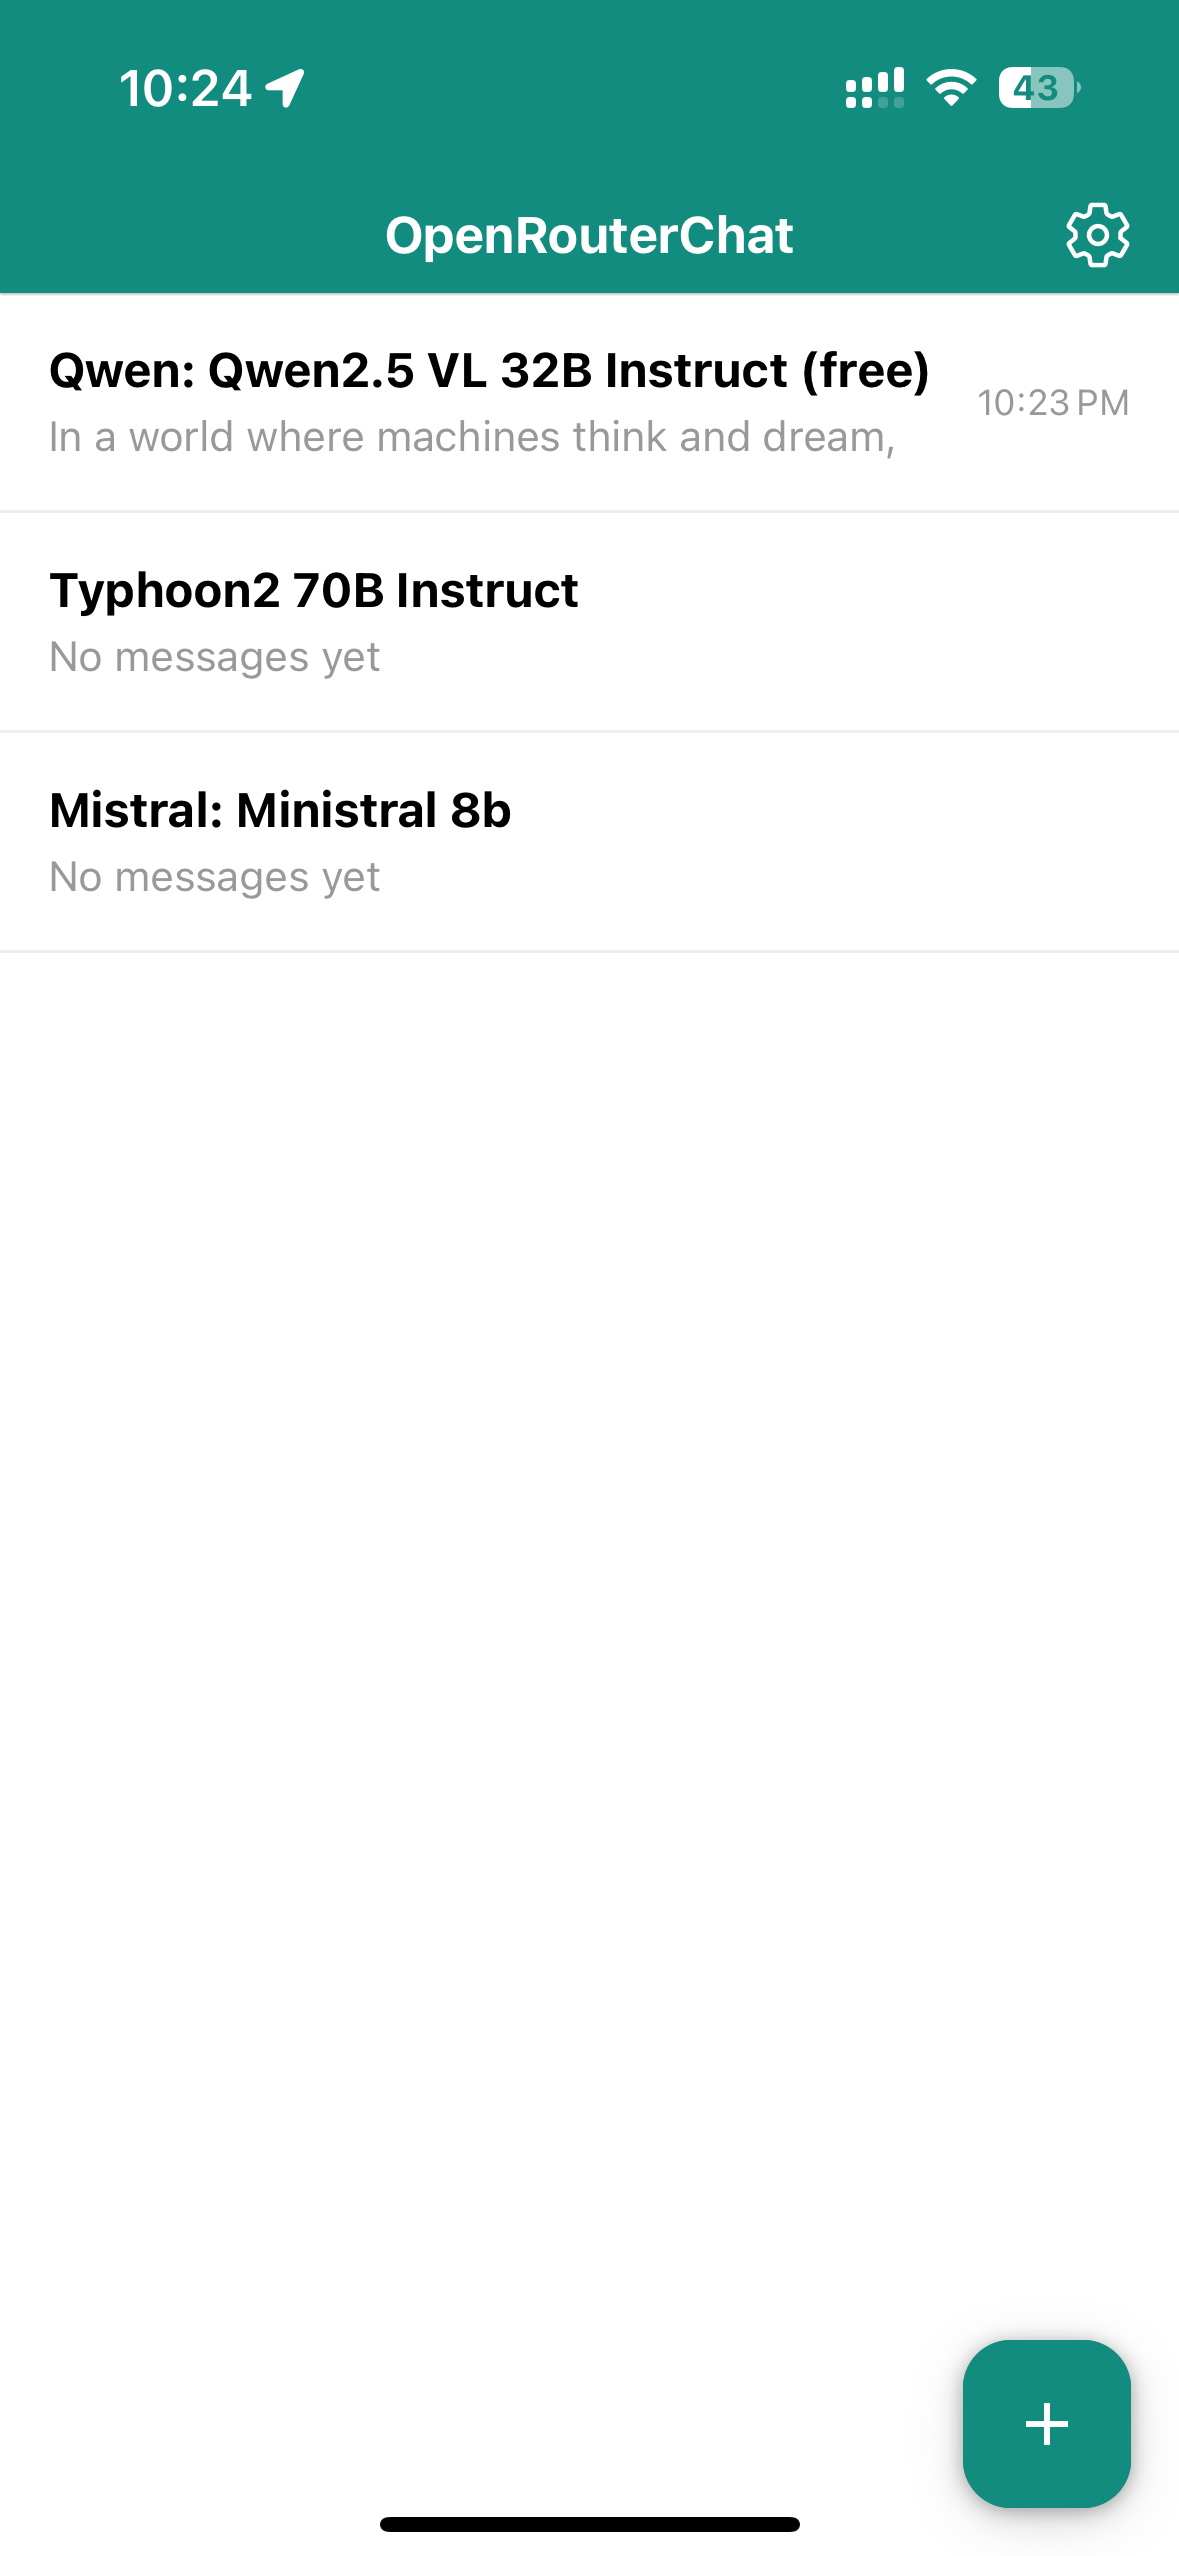
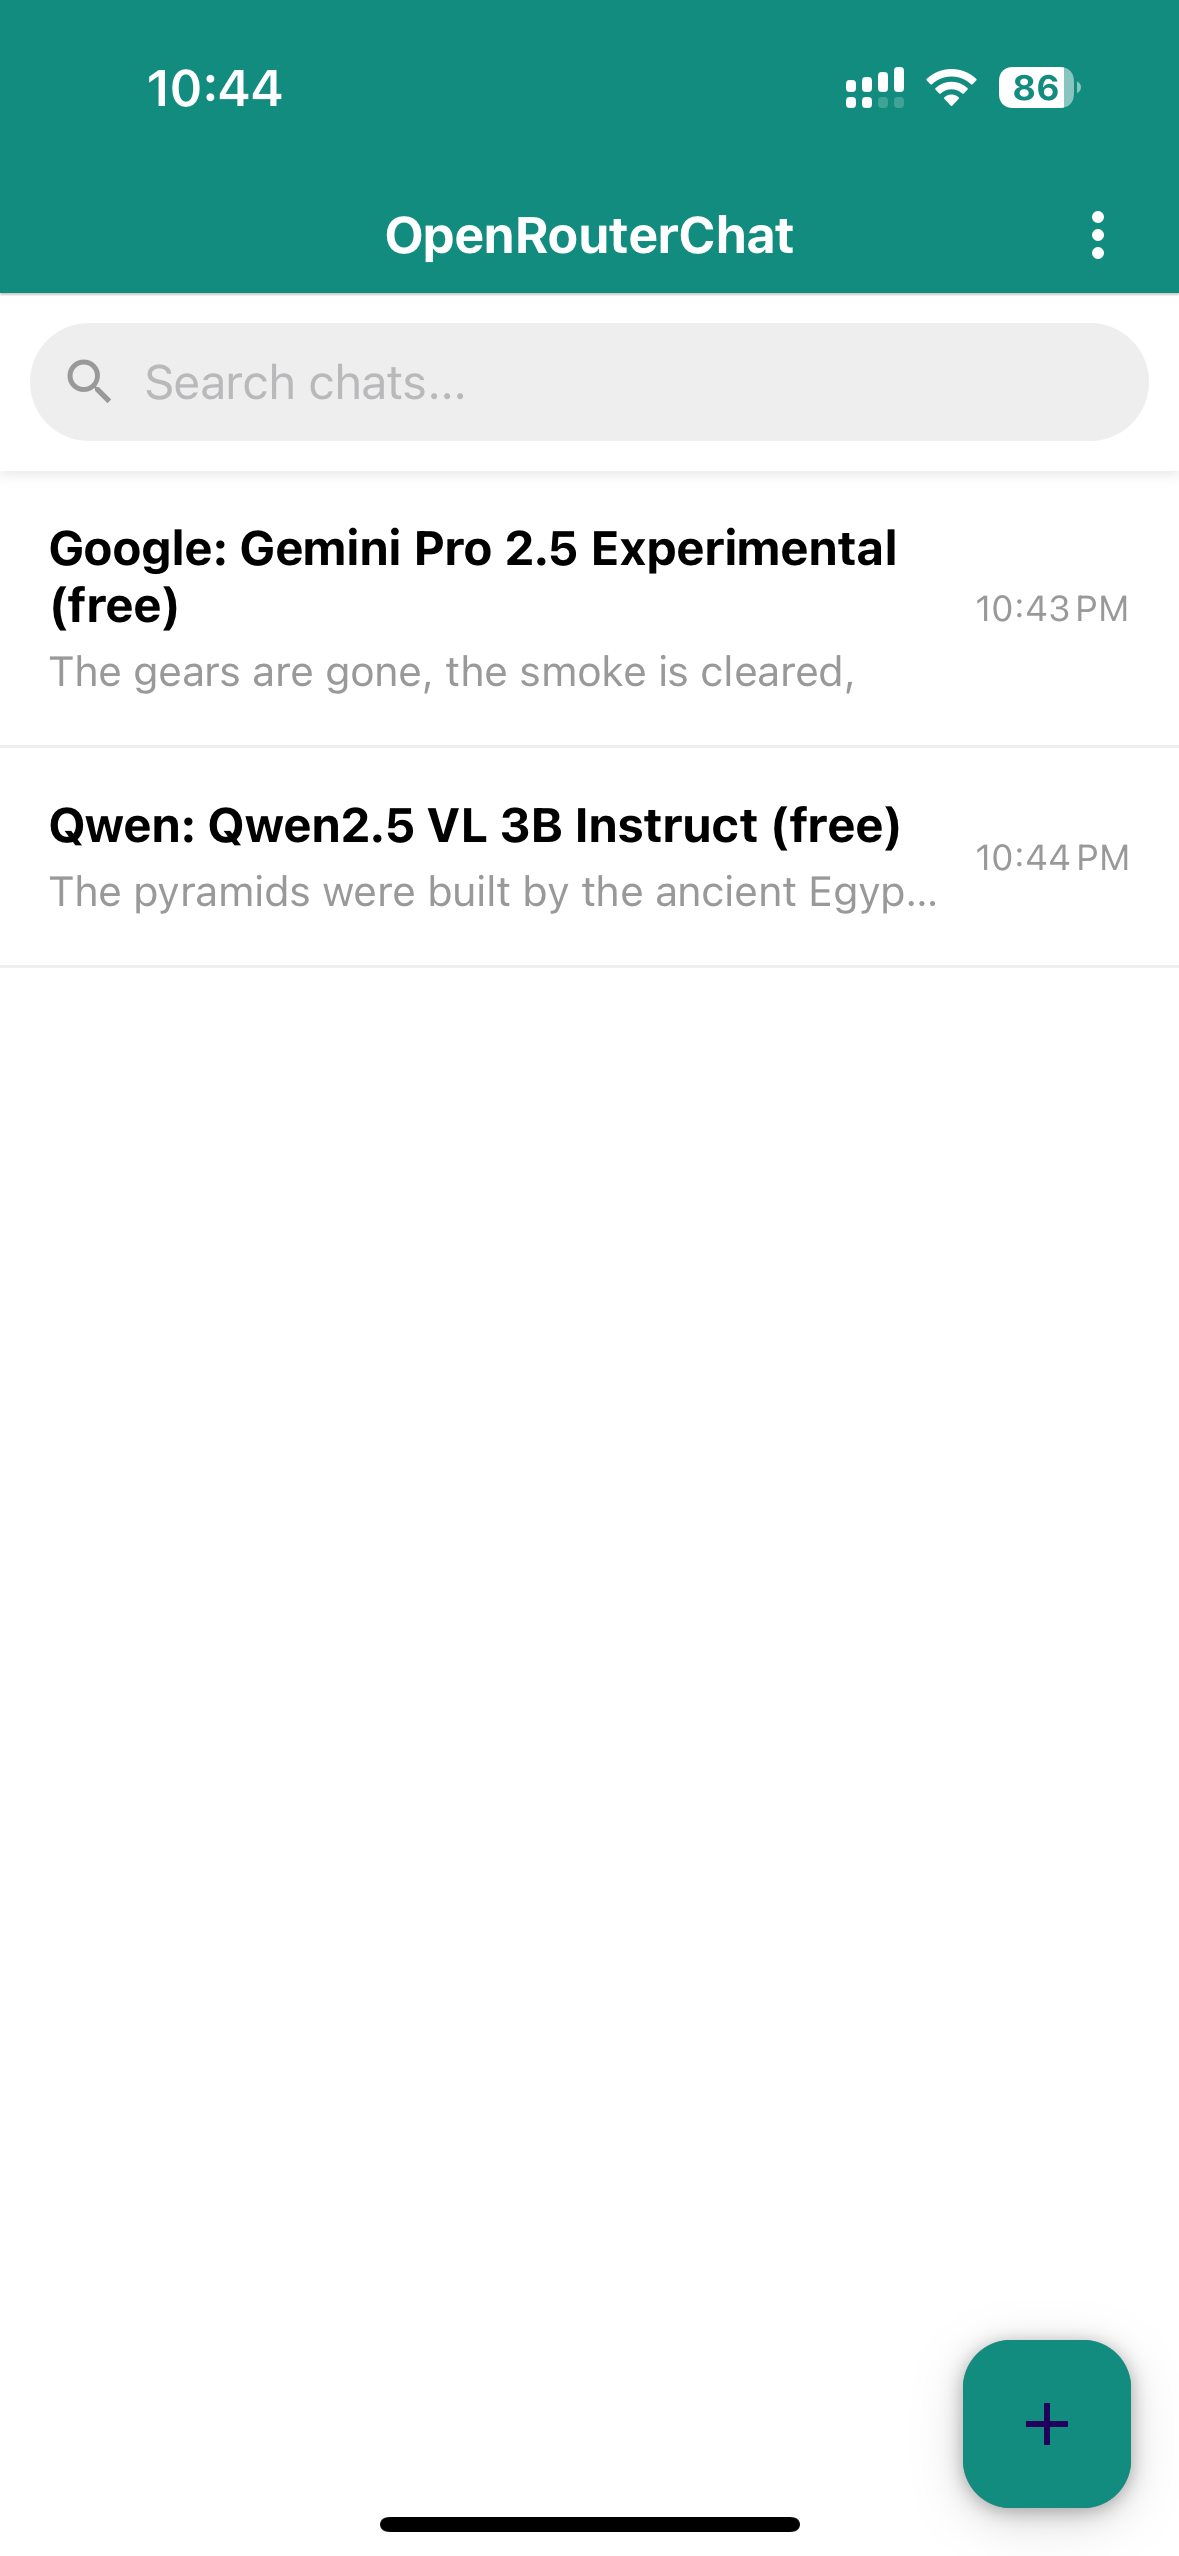
Update screenshots

diff --git a/README.md b/README.md
@@ -21,12 +21,16 @@
 
 <div align="center">
   <table>
-    <tr>
-	<td><img src="assets/screenshots/chat-list.png" alt="Chat List" width="250"/></td>  
-	<td><img src="assets/screenshots/model-selection.png" alt="Model Selection" width="250"/></td>
-	<td><img src="assets/screenshots/chat-screen.png" alt="Chat Screen" width="250"/></td>
-	<td><img src="assets/screenshots/settings.png" alt="Settings" width="250"/></td>
-    </tr>
+	<tr>
+		<td><img src="assets/screenshots/chat-list.png" alt="Chat List" width="250"/></td>  
+		<td><img src="assets/screenshots/model-selection.png" alt="Model Selection" width="250"/></td>
+		<td><img src="assets/screenshots/chat-screen.png" alt="Chat Screen" width="250"/></td>
+    	</tr>
+	<tr>
+		<td><img src="assets/screenshots/search-chat.png" alt="Chat Search" width="250"/></td>
+		<td><img src="assets/screenshots/settings.png" alt="Settings" width="250"/></td>
+		<td><img src="assets/screenshots/about.png" alt="About" width="250"/></td>
+	</tr>
   </table>
 </div>
 
